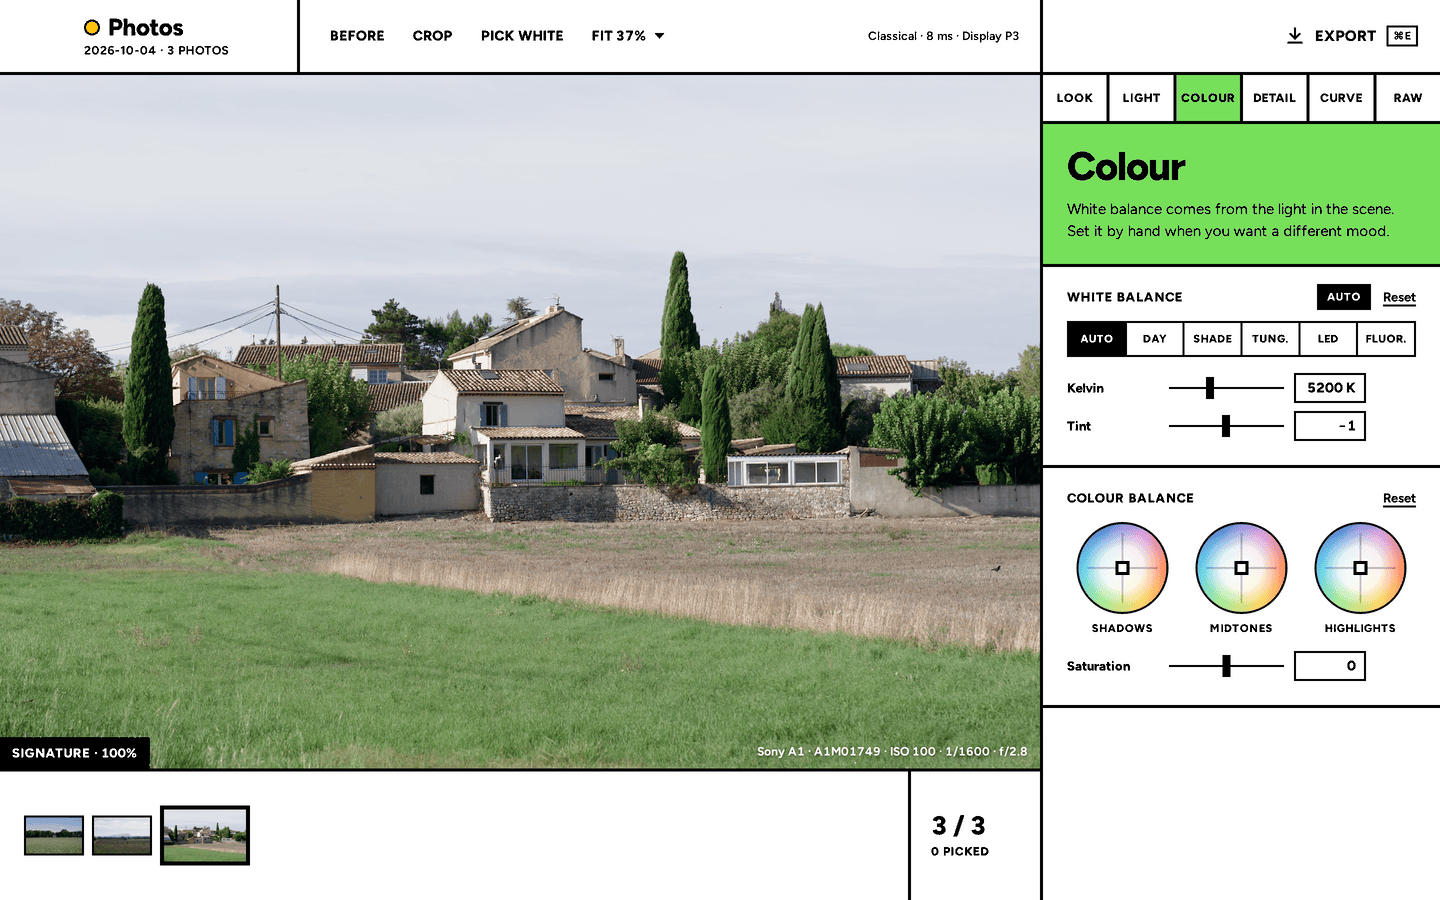
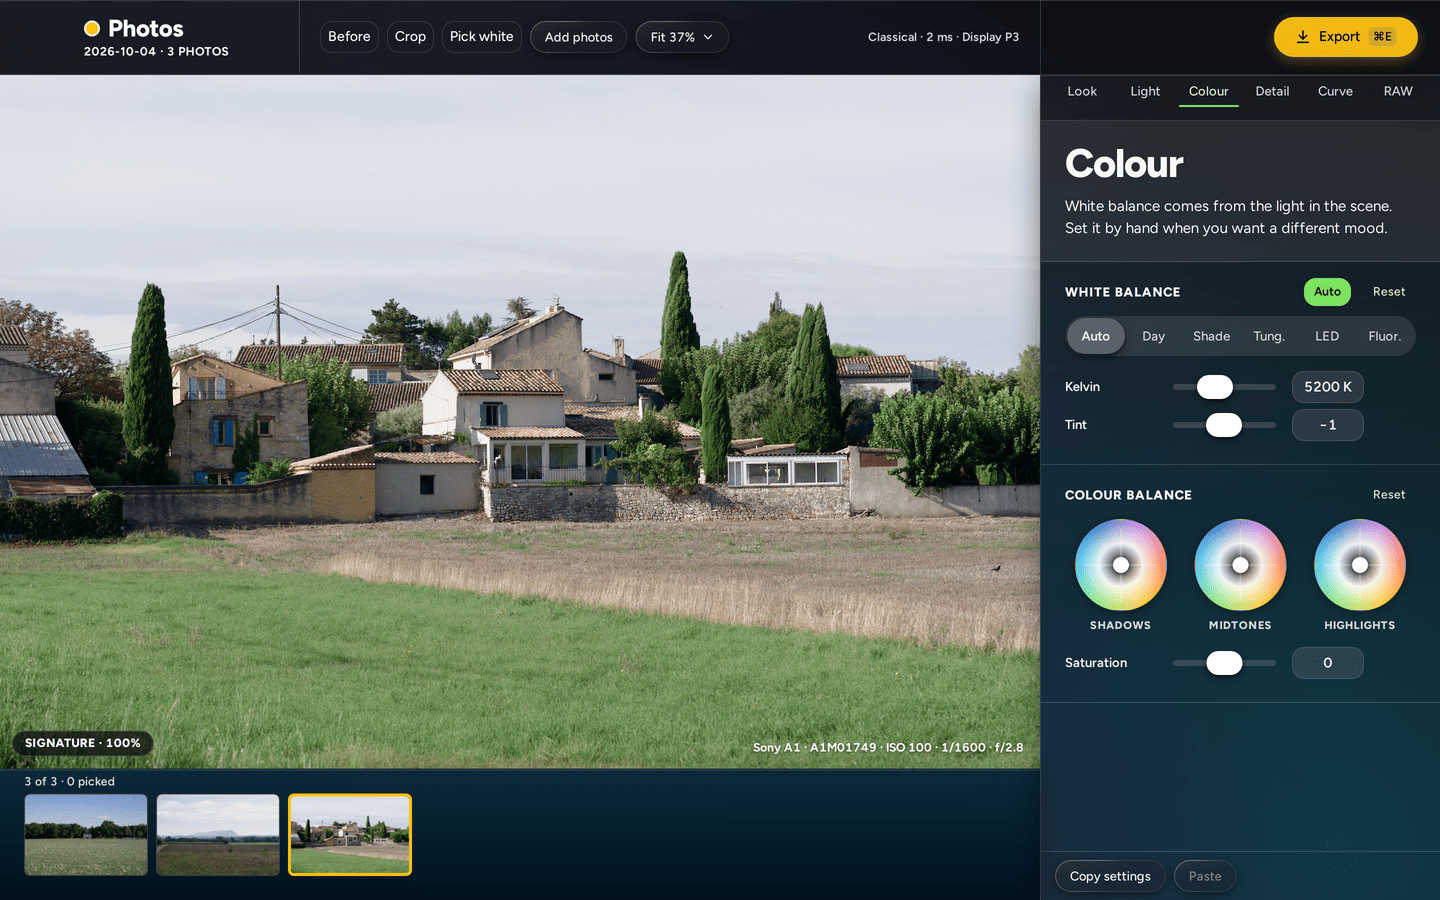
Release 0.1.6: the dark glass interface
- Version 0.1.5 -> 0.1.6; CHANGELOG section dated.
- README screenshots redone in the glass interface from A1M01749 (1440x900, 449 to 472 KB).
- tools/readme shrinks a picture with one dithered palette over the whole image (--palette whole, the default). The region palettes, made for the flat interface, made the glass panes blotchy and turned the Light tab's cyan Auto pill white. --palette regions keeps the old way.
- The question-30 test reads the macOS note anywhere in the CHANGELOG, so it survives a release.
- STATUS: README note updated; SOC-1, upload the social card, under Waiting on Mykyta.

diff --git a/src/repo.node.test.ts b/src/repo.node.test.ts
@@ -96,8 +96,8 @@ describe("the web engine the interface needs (docs/STATUS.md question 30)", () =
   it("tells people on a macOS that ships an older engine to update, while the minimum allows one", () => {
     if (!older(minimum(), FIRST_WITH_16_4)) return; // the owner raised the minimum: nothing left to say
     expect(read("README.md")).toMatch(/macOS 12 and 13, install the latest system and Safari updates/);
-    const unreleased = /## \[Unreleased\]([\s\S]*?)\n## \[/.exec(read("CHANGELOG.md"))?.[1] ?? "";
-    expect(unreleased).toMatch(/macOS 12 and 13, install the latest system and Safari updates/);
+    // The note goes out with the first release of the glass interface (0.1.6); a later release moves Unreleased on.
+    expect(read("CHANGELOG.md")).toMatch(/macOS 12 and 13, install the latest system and Safari updates/);
   });
 });
 

diff --git a/docs/STATUS.md b/docs/STATUS.md
@@ -307,7 +307,7 @@ Mykyta wrote: "Great, merge C2 and V1 branch to main and build new version". C2 
 - **Dark behind the photo.** `--paper` of the dark theme in `design/tokens.css` and `src/styles/tokens.css` is `#0f0f10`; the same colour is `PAPER_SRGB` in `src-tauri/src/native.rs` (f64, the `NSWindow` background colour, 0.0588 0.0588 0.0627; the wgpu pass itself clears to black and the core's frame, letterboxed in `PAPER_RGB8`, covers the cell), `PAPER_RGB8` in `src-tauri/src/api.rs` (`options.render.background = PAPER_RGB8`, the letterbox of the viewport's frames, thumbnails and look tiles; the app sets it, the core's default stays white and the CLI and every export are byte-identical), `backgroundColor` of the window in `src-tauri/tauri.conf.json`, and the inline root style and `color-scheme` of `index.html` and `components.html`. Two Rust tests (`api/tests.rs`: the letterbox and the window colour equal `--paper`) and `src/styles/native-viewport.node.test.ts` (7 tests: all of them tied to `--paper`, the native-viewport rule keeps html, body, #root and the Photos screen transparent, and no C2 sheet paints the cell) hold them together. C2's CSS does not paint over the cell: the aurora is `pointer-events-none` and masked out of the cell's rectangle (`--cell-x/y/w/h`), checked by `e2e/viewport.spec.ts` in a browser with the native viewport mock (the boxes at five points of the cell are all clear and unblurred, and a capture without the page's background is transparent inside the cell and opaque in the header) and by the node test. The smoke page check in `src-tauri/src/app.rs` follows the new slider (`SMOKE_PERF_SCRIPT` reads the knob). Its description of the page (`SMOKE_DESCRIBE_PAGE`, read by `page_paints_over_cell`) also reads the aurora, which no hit test lists: the mask must exclude its second layer, that layer must be the cell's rectangle, `--cell-x/y/w/h` must be set, and no box over the cell may have a background image or a backdrop blur; `e2e/viewport.spec.ts` runs the same script in Chromium. Exports and the CLI are untouched: `the_app_and_the_command_line_write_the_same_bytes` passes.
 - **Review of the merge (11 findings, all applied).** `Button` has one tree whether or not it has a title (focus stays on Next when its note appears), its tooltip opens on hover only (an open tooltip took the first Esc), and a locked `Toggle` is muted and inert; the Update cell is an app `Button`, so the reason of a locked one shows on hover; `Slider` ignores non-primary buttons; the Look search's Clear is not a Tab stop and an Esc in an empty field reaches the page; the developing view's drop notice is selectable; `e2e/perf/latency.perf.ts` reads the filmstrip caption, and `src/perfSelectors.node.test.ts` holds every class the perf files select to the app's markup; the Mac `viewport` job's page check now reads the aurora's mask and `--cell-x/y/w/h` (`page_paints_over_cell`, `docs/13`); the stale Safari 15 comment, the README and the changelog now say the interface needs WebKit 16.4 (question 30 stays open); `docs/00`, `AGENTS.md` and this file no longer contradict the dark glass decision. Found while doing it: the wrapper span of every button collapsed the Look section headers to their text (the approved `photos-look-search` reference shows it), fixed in `glass-c2.css` and held by `e2e/look-sections.spec.ts`; `native-viewport.node.test.ts` read `PAPER_SRGB` as one line and failed once `rustfmt` split it over four.
 - **Gates** (Linux x86_64, no Mac, 2026-10-16): `cargo fmt --check` clean (one line of `native.rs` reformatted), `cargo clippy --workspace --all-targets -- -D warnings` clean, `RUSTDOCFLAGS="-D warnings" cargo doc --workspace --no-deps` clean, `cargo deny check` ok (advisories, bans, licenses, sources), `cargo test -p yellowmoon-app` 138 passed, 0 failed, 3 ignored (two new). The parity test failed first because `src-tauri/binaries/ym-x86_64-unknown-linux-gnu` (git-ignored) was an old `ym`; `cargo build -p ym-cli`, copied over it, passes.
-- **README screenshots are out of date.** `README.md` shows its screenshots of the pre-glass interface (`docs/images/readme/`, made by `tools/readme`). Not regenerated here; they need the real photo and a run of the tool.
+- **README screenshots** are redone in the dark glass interface (2026-10-16) from A1M01749, 1440 × 900, 449 … 472 KB. `tools/readme` now shrinks a picture with one dithered palette over the whole image (`--palette whole`, the default): the region palettes of the flat interface made the glass panes blotchy and turned the Light tab's cyan Auto pill white. The social card (`docs/images/social-card.png`, `tools/social-card`) is made from the same capture; Mykyta uploads it in the repository's Settings → General → Social preview (Waiting on Mykyta).
 - **Mac-only checks** (M0-H4 row below): the dark ground and no white flash in WKWebView, the photo showing through the cell with blurred glass beside it, Radix focus and menus in WKWebView, and whether the CSS (Tailwind 4: `@property`, `color-mix`, `oklch`, `backdrop-filter`) renders on the oldest supported macOS (question 30).
 
 ## Waiting on Mykyta
@@ -319,6 +319,7 @@ Mykyta wrote: "Great, merge C2 and V1 branch to main and build new version". C2 
 | M0-H4 (added 2026-10-16, Add photos and Copy / Paste settings; `docs/11`) | On a Mac, in the app: (1) Edit shows Copy Settings, Paste Settings and Paste Settings to Picked (no key beside them), all three off on Start and under Preferences or About, Copy on once a photo is developed, Paste on after a copy, Paste to Picked on with a picked photo; (2) ⇧⌘C, ⇧⌘V and ⌥⇧⌘V work with the focus on the photo, and with the cursor in the Look search box, a slider's value box or the Export file-name field they do nothing at all (⌥⇧⌘V is also macOS's Paste and Match Style; the menu click is still explicit and works); plain ⌘C and ⌘V still copy and paste text; (3) "Add photos" and ⌘O add after the open photos and the current photo stays; (4) dragging ARW files, then a folder, over Photos shows the yellow frame and adds them; (5) at 1180 px the header shows Before, Crop, Pick white, Add photos and the zoom menu without anything over the Export cell, with Pick white pressed its hint floats under the header at the top right of the photo area (below 1347 px), and at 1440 px every label is one line with the status text and the hint sits in the header; (6) a paste onto the picked photos updates the filmstrip thumbnails after a moment and ⌘Z on one of them takes back only its paste. | Add photos and Copy / Paste |
 | M0-H4 (added 2026-10-16, dark glass interface; `docs/11` §*The dark glass interface*) | On a Mac, in the app: (1) the window is `#0f0f10` from its first moment (no white or clear flash at launch, on Start and on Photos, in a light-mode system too); (2) on Photos the photo shows through the cell, the aurora is not drawn over it, a cropped or portrait photo and the thumbnails are letterboxed in `#0f0f10`, and the glass header and tool panel blur the page's aurora and not the photo; (3) a slider drag, a pan and a zoom on a 24 MP photo stay as smooth as 0.1.5 with the blurred panes beside the native layer (`YM_PERF=1`, the `viewport:` lines of the diagnosis row below); (4) Radix in WKWebView: the Fit menu and the Default look select open on the checked item and close with Esc, a dialog keeps Tab inside and gives the focus back, a tooltip shows on hover and on a locked button, ⌘ and ⌥ with the arrow keys on a focused slider still go to the app; (5) on the oldest macOS you can run (12 or 13 without a Safari update) the glass draws: Tailwind 4 uses `@property`, `color-mix()`, `oklch()` and `backdrop-filter`, and says it targets Safari 16.4 and later; say which Safari WKWebView reports, and see question 30; (6) the 3 px focus ring is visible on every control with the keyboard, and Reduce Motion in System Settings stops the transitions. | the dark glass interface |
 | M0-H4 (added 2026-10-16, Before view; `docs/02`) | On a Mac, in the app: Before beside the camera's own JPEG of a few of your photos. The picture should be close to the JPEG (same white balance, colours and tone; the corners are no longer brightened, since 0.1.5), the label reads "Before · camera default", and nothing you drag moves it except the decode switches and lens corrections. Added 2026-10-16: with a photo that has a lens table (most E-mount files), time the first flip to Before at Fit and at 100 % and watch the memory (Activity Monitor): on Linux it costs one more raw front once per photo (about the time of the first final frame, +23 to +67 MiB at Fit and +42 to +167 MiB at 100 %; the figures in this section), every later flip is instant, and a file without a lens table costs nothing. Metal parity of the new stop value is in `gpu_color.rs`, which `mac-gpu.yml` runs. | Before view |
+| SOC-1 (added 2026-10-16) | Upload `docs/images/social-card.png` in the repository's Settings → General → Social preview (GitHub has no API for it). Again whenever the file changes. | the card shown when the repository is linked |
 | M0-09 | On a machine with open internet: `tools/fetch/samples.sh --refresh`, review and commit `tools/fetch/manifest.json`; promote raw.pixls.us files after a licence check; collect Play Raw tier-2 files. | decoder, detection, golden, noise gates |
 | M1-H3 | Email HdM about the SXT curve. | ALEXA curve check |
 | M1-H4 | Confirm that shipping coefficients fitted with CIE SPDs (CC BY-SA 4.0) is acceptable (profiles, illuminant models). | M1 |

diff --git a/tools/readme/README.md b/tools/readme/README.md
@@ -19,7 +19,7 @@ It reuses the machinery of `npm run e2e:shell` (`e2e/real/host.mjs`: the server 
 | `photo-colour.png` | Colour tab (white balance card, colour balance wheels) | the most colourful |
 | `photo-detail.png` | Detail tab (sharpening, noise reduction) | the first |
 | `photo-export.png` | Export panel over a photo | the first |
-| `*-1x.png` | the same at half size, written when it is less than 60 % of the 2x file | |
+| `*-1x.png` | the same at half size, written when it is less than 60 % of the 2x file (always, with `--one-x always`) | |
 | `manifest.json` | what each file shows, its size, which photos were used | |
 
 The pictures are of the webview only (no window frame, no menu bar), 2880 × 1800 px: a 1440 × 900 CSS pixel window at a device scale of 2, the size of `design/screenshots/`. The page is made 1440 × 900 with `xdotool`, because the window the app opens has a 25 px menu bar inside its 900 px on Linux.
@@ -47,19 +47,27 @@ A pick is `first`, `second`, `last`, `colourful`, a number (1 is the first in th
 
 `--export-to "~/Pictures/Lisbon export"` is the folder the Export panel says it saves to. The default is that sentence with the folder's name, as in the mockup; the real default is next to the photos and would put your own paths on the picture. Nothing is exported either way.
 
-Other options (`npm run readme:screenshots -- --help`): `--states`, `--scale 1`, `--max-kb`, `--min-colours`, `--dither`, `--one-x`, `--no-optimise`, `--keep-raw`, `--dist`, `--binary`, `--data`, `--stable-ms`, `--timeout-min`.
+Other options (`npm run readme:screenshots -- --help`): `--states`, `--scale 1`, `--palette`, `--max-kb`, `--min-colours`, `--dither`, `--one-x`, `--no-optimise`, `--keep-raw`, `--dist`, `--binary`, `--data`, `--stable-ms`, `--timeout-min`.
 
 The debug app reads the repository's `data/` folder at run time. When the app was built before a change to `data/` (the app then refuses every photo with an "unknown field" error), or `data/` is being edited, give `--data` a copy: `git archive HEAD data | tar -x -C /tmp/snapshot` and `--data /tmp/snapshot/data`.
 
 ## Size
 
-The target is 600 KB for each PNG. The interface is flat colour and compresses to almost nothing; the photo does not: a 2880 × 1800 capture is 1.7 to 3.4 MB, and as a 256-colour PNG still 0.7 to 0.9 MB. The picture is shrunk to an 8-bit PNG with three palettes, because one palette over everything loses what is small (the yellow moon beside a cyan title block came out as mud, the colour wheels as grey discs):
+A capture is 2880 × 1800 px and 4.5 to 4.8 MB as a PNG. Each one is cut down to an 8-bit PNG (at most 256 colours) with `pngquant`, then `optipng` or `oxipng` repacks it without changing a pixel. `--palette` chooses how the colours are shared out.
 
-- the interface keeps its 48 most frequent exact colours, mapped without dithering (the page tells the tool where the photos are, so thumbnails and the photo cell are not part of it), plus every colour of `design/tokens.css` that is on the picture at all: a small flat colour is not among the most frequent once the capture is halved for the 1x file (the moon mark is 20 pixels there, behind a thousand shades of grey from the text and the resize), and without this it came out grey or as the colour of the title block beside it;
-- the colour wheels, the histogram and the curve plot get 40 colours of their own;
-- the photographs (the photo cell, the filmstrip, the look tiles) get what is left, up to 168 colours, searched with `pngquant` for the largest palette that is under the target, not below `--min-colours` (dithering at 0.5, so a sky stays smooth). `optipng` or `oxipng` then repacks the file.
+**`--palette whole` (the default).** One palette over the entire picture, dithered. `--dither` is 1 (pngquant's own default). The palette starts at 256 colours and is searched down, by bisection, until the file is under `--max-kb` (default 600), but never below `--min-colours` (192 in this mode). The dark glass interface is blurred translucent panes over a gradient, not flat colour: the right-hand panel alone has thousands of shades, and they only look smooth with a fine palette and dithering. The small accent colours (the cyan Auto pill, the yellow Export button and moon mark, the green and coral pills on the other tabs) stay as they are on the screen.
 
-On the test photos the 2x files ended with 96 to 168 photo colours at 580 to 600 KB, except a detailed photo (a brick tower in front of trees), which is 900 KB at the floor of 96. A photo bands visibly below about 96 colours (the default floor): when a picture is still over the target there, the log says so; raise `--max-kb`, use the 1x file (about 320 KB at 256 colours), or lower `--min-colours` and look at the result. A JPEG at quality 92 is about 500 KB for the same capture, if the README ever prefers that to a palette PNG.
+**`--palette regions`.** Three palettes, one for each kind of thing on the picture (the page tells the tool where the photos and plots are). It was the only mode before the glass interface, and it suits an interface of flat colours. `--dither` is 0.5 and `--min-colours` 96 in this mode.
+
+- The interface keeps its 48 most frequent exact colours, mapped without dithering (thumbnails and the photo cell are not part of it), plus every colour of `design/tokens.css` that is on the picture at all. A small flat colour is not among the most frequent once the capture is halved for the 1x file (the moon mark is 20 pixels there, behind a thousand shades of grey from the text and the resize), and without this it came out grey or as the colour of the title block beside it.
+- The colour wheels, the histogram and the curve plot get 40 colours of their own.
+- The photographs (the photo cell, the filmstrip, the look tiles) get what is left, up to 168 colours, searched with `pngquant` for the largest palette that is under the target, not below `--min-colours`.
+
+On the glass interface this mode comes out wrong, which is why `whole` is the default. The panel's gradient is mapped to its 48 most frequent colours without dithering, so it is blotchy, with dark teal patches. And the accent colours of the tabs are in `src/styles/glass-c2.css`, not in `design/tokens.css`, so nothing keeps them: the Light tab's cyan Auto pill came out white. On a flat interface it is the other way round: one palette over the whole picture loses what is small (the yellow moon beside a cyan title block came out as mud, the colour wheels as grey discs), because the photo's pixels outnumber them a thousand to one.
+
+**The 1x files.** A `-1x.png` is made from the lossless capture, never from the 2x PNG: the capture is scaled to half with ImageMagick's Lanczos filter, then cut down once. It is the file the README uses, so it is the one to look at. It is written when it is under 60 % of the 2x file, or always with `--one-x always`.
+
+**What to expect.** The 1x files come out at 256 colours and 450 to 470 KB, under the target, so the search stops at once. The 2x files cannot get under 600 KB with a dithered palette over the whole picture: they end at the floor of 192 colours at about 1.6 MB, and the log says so ("over 600 KB"). Use the 1x file, or raise `--max-kb`. `--min-colours 256` keeps the best palette when the target cannot be met anyway, and `--dither 0.5` makes a 2x file about 5 % smaller. A JPEG at quality 92 (4:4:4) is about 380 KB for a 1x capture, if the README ever prefers that to a palette PNG.
 
 ## What counts as "final"
 

diff --git a/README.md b/README.md
@@ -13,7 +13,7 @@ Yellowmoon is a free, open-source raw processor for macOS. Drop in ARW files fro
 | ![Light tab: exposure, histogram, highlights and shadows](docs/images/readme/photo-light.png) | ![Colour tab: white balance and colour balance](docs/images/readme/photo-colour.png) |
 | ![Detail tab: sharpening and noise reduction](docs/images/readme/photo-detail.png) | ![Export panel](docs/images/readme/photo-export.png) |
 
-The screenshots are of the development build on Linux (`tools/readme`); on a Mac the photo is drawn by a native Metal view.
+The screenshots are of the development build on Linux (`tools/readme`), in the dark glass interface; on a Mac the photo is drawn by a native Metal view.
 
 ## Why
 

diff --git a/CHANGELOG.md b/CHANGELOG.md
@@ -9,6 +9,12 @@ moves the entries below from Unreleased into a dated section for that version.
 
 ## [Unreleased]
 
+Nothing yet.
+
+## [0.1.6] - 2026-10-16
+
+A new dark interface of glass panes over a still, cool glow, so the photo is the brightest thing on screen.
+
 ### Changed
 
 - A new dark glass interface: the same layout with new controls throughout, yellow kept for buttons, the photo count in the filmstrip's caption ("4 of 12 · 3 picked"), and larger thumbnails.
